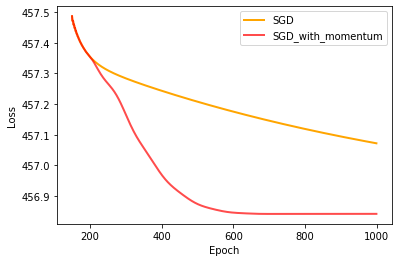
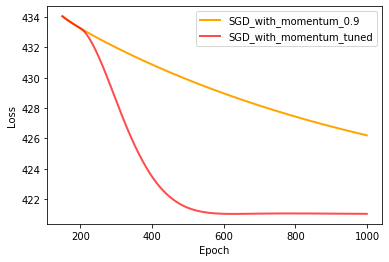
post optim end

diff --git a/_posts/2020-02-02-OptimizersComparisonNesterov.md b/_posts/2020-02-02-OptimizersComparisonNesterov.md
@@ -1,0 +1,111 @@
+---
+title: "Machine Learning Theory Comprehension: Optimizers Comparison on a Quadratic Regression, SGD with Momentum"                
+date: 2020-01-28
+tags: [machine learning, data science, optimizers, machine learning theory]
+header:
+  image: "/OptimizerComparison/loss-landscapeR.jpg"
+excerpt: "Machine Learning Projects, Optimizer Comparison, Data Science"
+mathjax: "true"
+toc: true
+toc_label: "Contents"
+toc_icon: "cog"
+---
+
+During my study at Tokyo Data Science I am constantly exploring new topics of Machine Learning. We start the foundation of each subject by firstly covering the theoretical bases of the technique employed to develop the different architectures. Even though getting the general idea of a particular method may come easy, the understanding of the implementation on the code and its real effect on the model often bear a certain level of abstraction.This is especially true if dealing with deep neural network in which the choice of a particular parameter or setup is integrated in a elaborated architecture and the real perception of its effect is often clouded by the complexity of the net.
+
+I therefore decided to break down each topic by supporting the theory with a very simple exercise or application (that often correspond to the school assignment) in order to effectively represent the idea of each technique.
+
+In this series of posts I will employ the gradient descent on a simple quadratic regression to compare the most common Optimizers currently employed to train ML models:
+
+* SGD with Momentum
+* SGD with Nesterov momentum
+* AdaGrad and its evolution in RSMprop
+* Adam   
+
+Please note that some of these techniques, in particular the last two, are particularly conceived for applications to deep learning in cases with complex landscape loss functions (Like the one at the head of this post taken from [losslandscape](https://losslandscape.com/), which I strongly suggest to take a look at. Therefore, their use on a the quadratic function may not lead to the expected result but still can clarify their rationale.
+
+
+## SGD with Momentum Rationale
+
+The learning rate is a crucial parameter that determines the dimension of step to upload the weights after each iteration during the gradient descent. The simple SGD employs a constant learning rate. This means that all the parameters are updated with the same learning rate independently from the "shape" of the loss function. This can result in a slow journey to the local minima as shown in the case of Figure 1, considering a simple case of two weights. Note that the loss is represented with contour lines as a function of the two parameters.
+<img src="{{ site.url }}{{ site.baseurl }}/OptimizerComparison/MomentumandSGD.png" alt="SGD and SGD with momentum">
+<figcaption>Figure 1: SGD and SGD with momentum</figcaption>
+
+It is clear that to quickly reach the local minima, the update on the horizontal direction has to move with a "faster peace". Now, given that the actual step is evaluated by multiplying the calculated gradient to the learning rate, it is reasonable to think that if the value of the gradient had a relevant increase on a particular direction, this trend will continue for the next iteration (unless sudden changes in the loss function).
+
+We can think of the gradient as a sort of vector, with its magnitude and a direction pointing with a certain intensity to the local minima. It can be therefore advantageous to take advantage of the momentum given by the previous iteration to speed up the learning process. At the same time we don't want to accelerate indefinitely and amplify too much the step size, as we can overshoot our minima target. Hence, without going too much in deep with the physical parallel of momentum (whose clear explanation is in the [deep learning book](http://www.deeplearningbook.org/contents/optimization.html)), for the SGD with momentum implementation we mainly need two ingredients:
+
+- A variable $$v$$ that plays the role of velocity
+- A friction factor that introduces a gradual (exponential) decay of the velocity term in order to dump the oscillations in the weights updates.
+
+The result it is a faster descent towards the local minima with a dumped oscillation of the weights as in Figure 2.
+
+<img src="{{ site.url }}{{ site.baseurl }}/OptimizerComparison/Momentum.png" alt="SGD with momentum" class="align-center">
+<figcaption>Figure 2: SGD with momentum</figcaption>
+
+## SGD with Momentum implementation
+
+Its implementation is pretty straightforward. Please note that given the few data and the simple case we are studying, a unique batch including all the samples has been considered.
+
+* Compute the gradient estimate:
+$$ \textbf{g} \leftarrow \frac{1}{m}\nabla_\theta\sum_{i=1}^m L(\textit{f} (\mathbf{x}^{(i)};\mathbf{\theta}),\mathbf{y}^{(i)})$$
+* Compute the velocity update:
+$$ \textbf{v} \leftarrow \alpha\textbf{v}-\epsilon\textbf{g}$$
+* Apply update:
+$$ \mathbf{\theta} \leftarrow \mathbf{\theta}+\textbf{v}$$
+
+As specified in the Machine Learning text, "the step size depends on how large and how aligned a sequence of gradients are". If the gradient keeps pointing on the same direction its value contributes to amplify the step on the next iteration, "if the moment algorithm always observe gradient **g**, then it will accelerate in the direction **-g**".
+
+## Comparison with the simple SGD for the Quadratic Regression
+
+We can now finally get into the exercise on the quadratic regression. In the notebook linked [here](https://github.com/DavideDaz/TokyoDataScience/blob/master/Assignments/Gradient%20Descent%20Assignment/Basis%20Neural%20Network%20-%20Quadratic%20-%20SGD%20with%20momentum.ipynb) I compared the performance of the simple SGD (using a unique batch of inputs) with the SGD with the momentum applied. You can also open the notebook on Google Colab by right-clicking on the Colab button on top and opening it in a new tab. Two values of friction factor have been also employed to compare the performance.The two implementation have been initialized with the same weight values and run for the same number of epochs for a clear comparison.
+
+<img src="{{ site.url }}{{ site.baseurl }}/OptimizerComparison/momentum_reg.png" alt="Regression" class="align-center">
+<figcaption>Figure 3: Regression curves for the three implementations</figcaption>
+
+The three methods reach a reasonable approximation of the quadratic function (Figure 3) but the trend of the loss function and its final value after the 1000 epochs unveil the change introduced by each method. Indeed, after an initial oscillation the loss for the SGD with momentum case is quickly pushed down, reaching the minima after only 100 iterations. The descent for the simple SGD is instead more gradual and ended at stays at a higher value after the end on the epochs Figure 4).
+
+<figure class="half full">
+<img src="{{ site.url }}{{ site.baseurl }}/OptimizerComparison/loss_mom.png" alt="SGD with momentum loss">
+<img src="{{ site.url }}{{ site.baseurl }}/OptimizerComparison/loss_mom_mag.png" alt="SGD with momentum loss mag">
+<figcaption>Figure 4: Loss function over the epochs</figcaption>
+</figure>
+
+From Figure 5 we can also observe the effect of the friction factor that in case of 0.9 introduces a 10% decay for each v term, until reaching a steady velocity given by $$\epsilon g/(1-\alpha)$$.
+
+<img src="{{ site.url }}{{ site.baseurl }}/OptimizerComparison/velocities.png" alt="Velocity terms decay">
+<figcaption>Figure 5: Velocity terms decay, alpha=0.9</figcaption>
+
+
+## Case with a friction factor of 0.99
+
+In case we set a higher friction factor we are actually "decreasing the friction" as we are storing a bigger portion of the previous gradient to evaluate the new step and the decay is reduced down to 1% over the iterations (Figure 6).
+
+<img src="{{ site.url }}{{ site.baseurl }}/OptimizerComparison/velocities099.png" alt="Velocity terms decay099">
+<figcaption>Figure 6: Velocity terms decay, alpha=0.99</figcaption>
+
+The use of a high value of alpha from the beginning of the cycle can introduce a high oscillation of the loss function. In the initial step the gradient is still far to be aligned towards the local minima, and this error is not dumped enough by the friction factor.
+
+<figure class="half full">
+<img src="{{ site.url }}{{ site.baseurl }}/OptimizerComparison/loss099.png" alt="SGD with momentum loss099">
+<img src="{{ site.url }}{{ site.baseurl }}/OptimizerComparison/loss099_mag.png" alt="SGD with momentum loss mag099mag">
+<figcaption>Figure 7: Loss function over the epochs, alpha=0.9,0.99</figcaption>
+</figure>
+As a result the effect of the excessive amplification is propagated over all the next iterations (Figure 7), resulting some times in a higher loss at the end of the 1000 iterations.
+
+
+## Tuning the friction factor during the cycle
+
+Reversely, we can leverage a higher friction factor after that the consecutive gradients are sufficiently aligned in order to further speed up the learning process. In the example below I run again the SGD with momentum using a friction factor of 0.9 for the first 200 iterations and switch to 0.99 for the remaining 800 with a very simple modification in the code:
+
+    for i in range(1000):
+        if i<=200:
+            alpha_friction99 = 0.9
+        else:
+            alpha_friction99 = 0.99
+
+
+In Figure 8 is shown the comparison between the case with $$\alpha=0.9$$ and the one with $$\alpha$$ switching from 0.9 to 0.99. We can clearly see how the loss decrease faster after 200 epochs.
+
+<img src="{{ site.url }}{{ site.baseurl }}/OptimizerComparison/loss09-099.png" alt="Friction factor tuning ">
+<figcaption>Figure 8: Effect of the friction factor tuning</figcaption>
